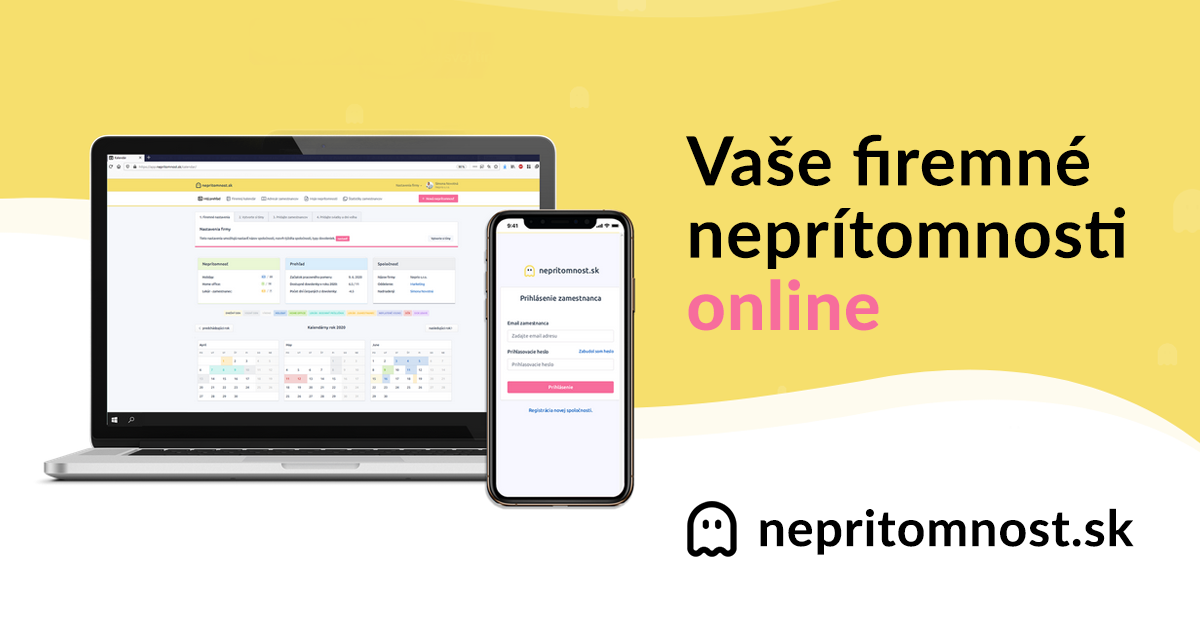
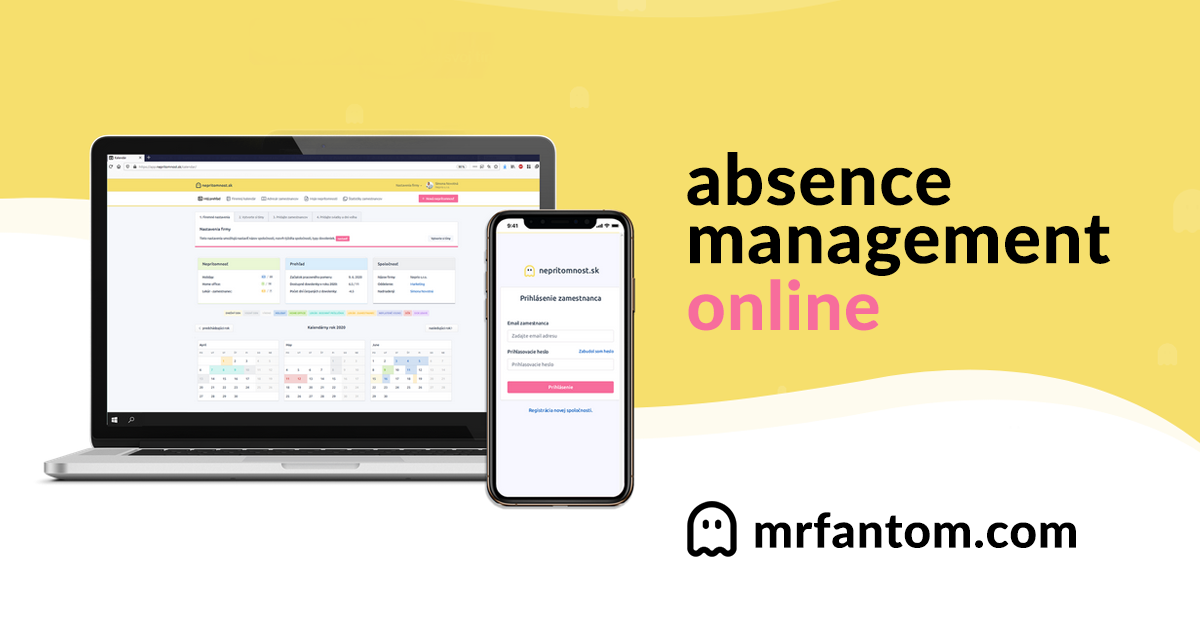
update

Changed region(s): [[0.555, 0.2111, 0.9558, 0.4524], [0.6167, 0.8143, 0.9558, 0.8746]]

diff --git a/index.html b/index.html
@@ -4,25 +4,25 @@
 <head>
     <meta charset="utf-8">
     <meta name="viewport" content="width=device-width, initial-scale=1">
-    <title>Plan employees' time off. Quickly. Easily. Online. For free. | MrFantom.com</title>
+    <title>Plan employees' time off. Quickly. Easily. Online. For free. | mrfantom.com</title>
     <meta name="title"
         content="iaí">
     <meta name="description"
-        content="MrFantom.com is an online solutions for tracking leave, absence and attendance in your organization.">
+        content="Mrfantom.com is an online solutions for tracking leave, absence and attendance in your organization.">
     <meta property="og:type" content="website">
     <meta property="og:url" content="https://mrfantom.com/">
     <meta property="og:title"
-        content="MrFantom.com is an online solutions for tracking leave, absence and attendance in your organization.">
+        content="Online solutions for tracking leave, absence and attendance in your organization.">
     <meta property="og:description"
-        content="MrFantom.com is an online solutions for tracking leave, absence and attendance in your organization.">
-    <meta property="og:image" content="https://mrfantom.com/assets/images/mrfantom.com.png">
+        content="Online solutions for tracking leave, absence and attendance in your organization.">
+    <meta property="og:image" content="https://mrfantom.com/assets/images/hp-og-time-off.png">
     <meta property="twitter:card" content="summary_large_image">
     <meta property="twitter:url" content="https://mrfantom.com/">
     <meta property="twitter:title"
-        content="MrFantom.com is an online solutions for tracking leave, absence and attendance in your organization.">
+        content="Online solutions for tracking leave, absence and attendance in your organization.">
     <meta property="twitter:description"
-        content="MrFantom.com is an online solutions for tracking leave, absence and attendance in your organization.">
-    <meta property="twitter:image" content="https://mrfantom.com/assets/images/mrfantom.com.png">
+        content="Online solutions for tracking leave, absence and attendance in your organization.">
+    <meta property="twitter:image" content="https://mrfantom.com/assets/images/hp-og-time-off.png">
     <link rel="shortcut icon" href="/favico.ico?v=1">
     <link rel="stylesheet" href="assets/css/slick.css">
     <link rel="stylesheet" href="assets/css/animate.css">
